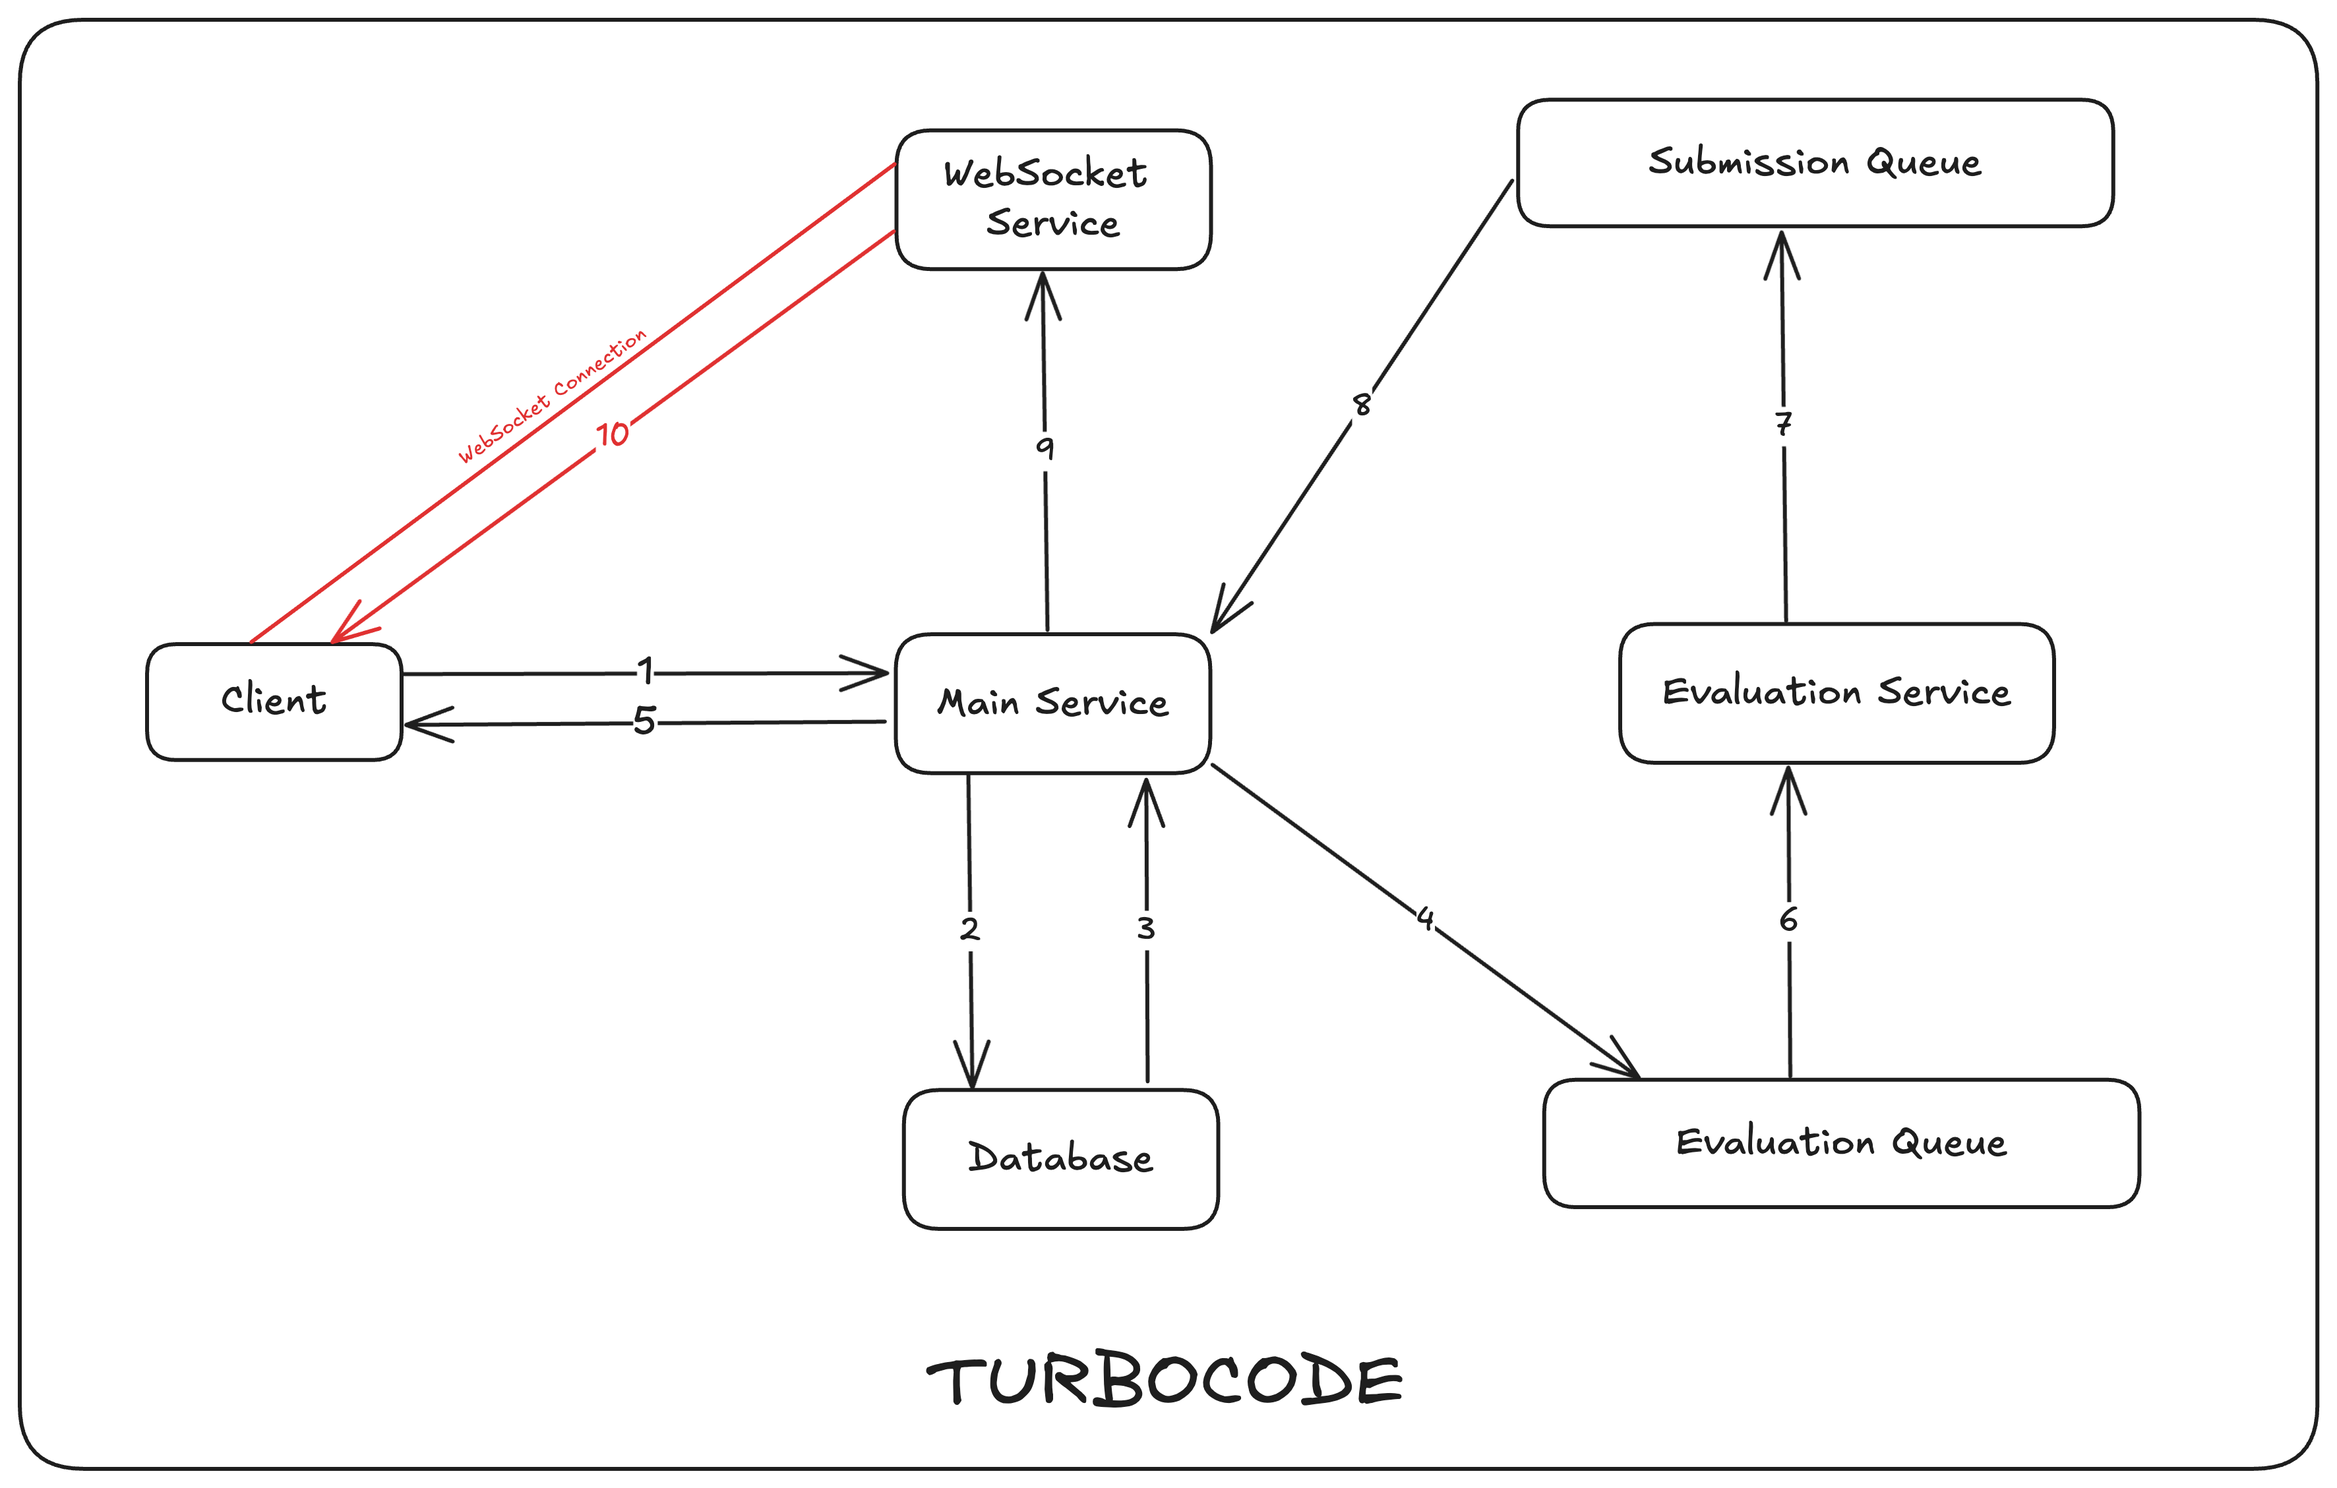
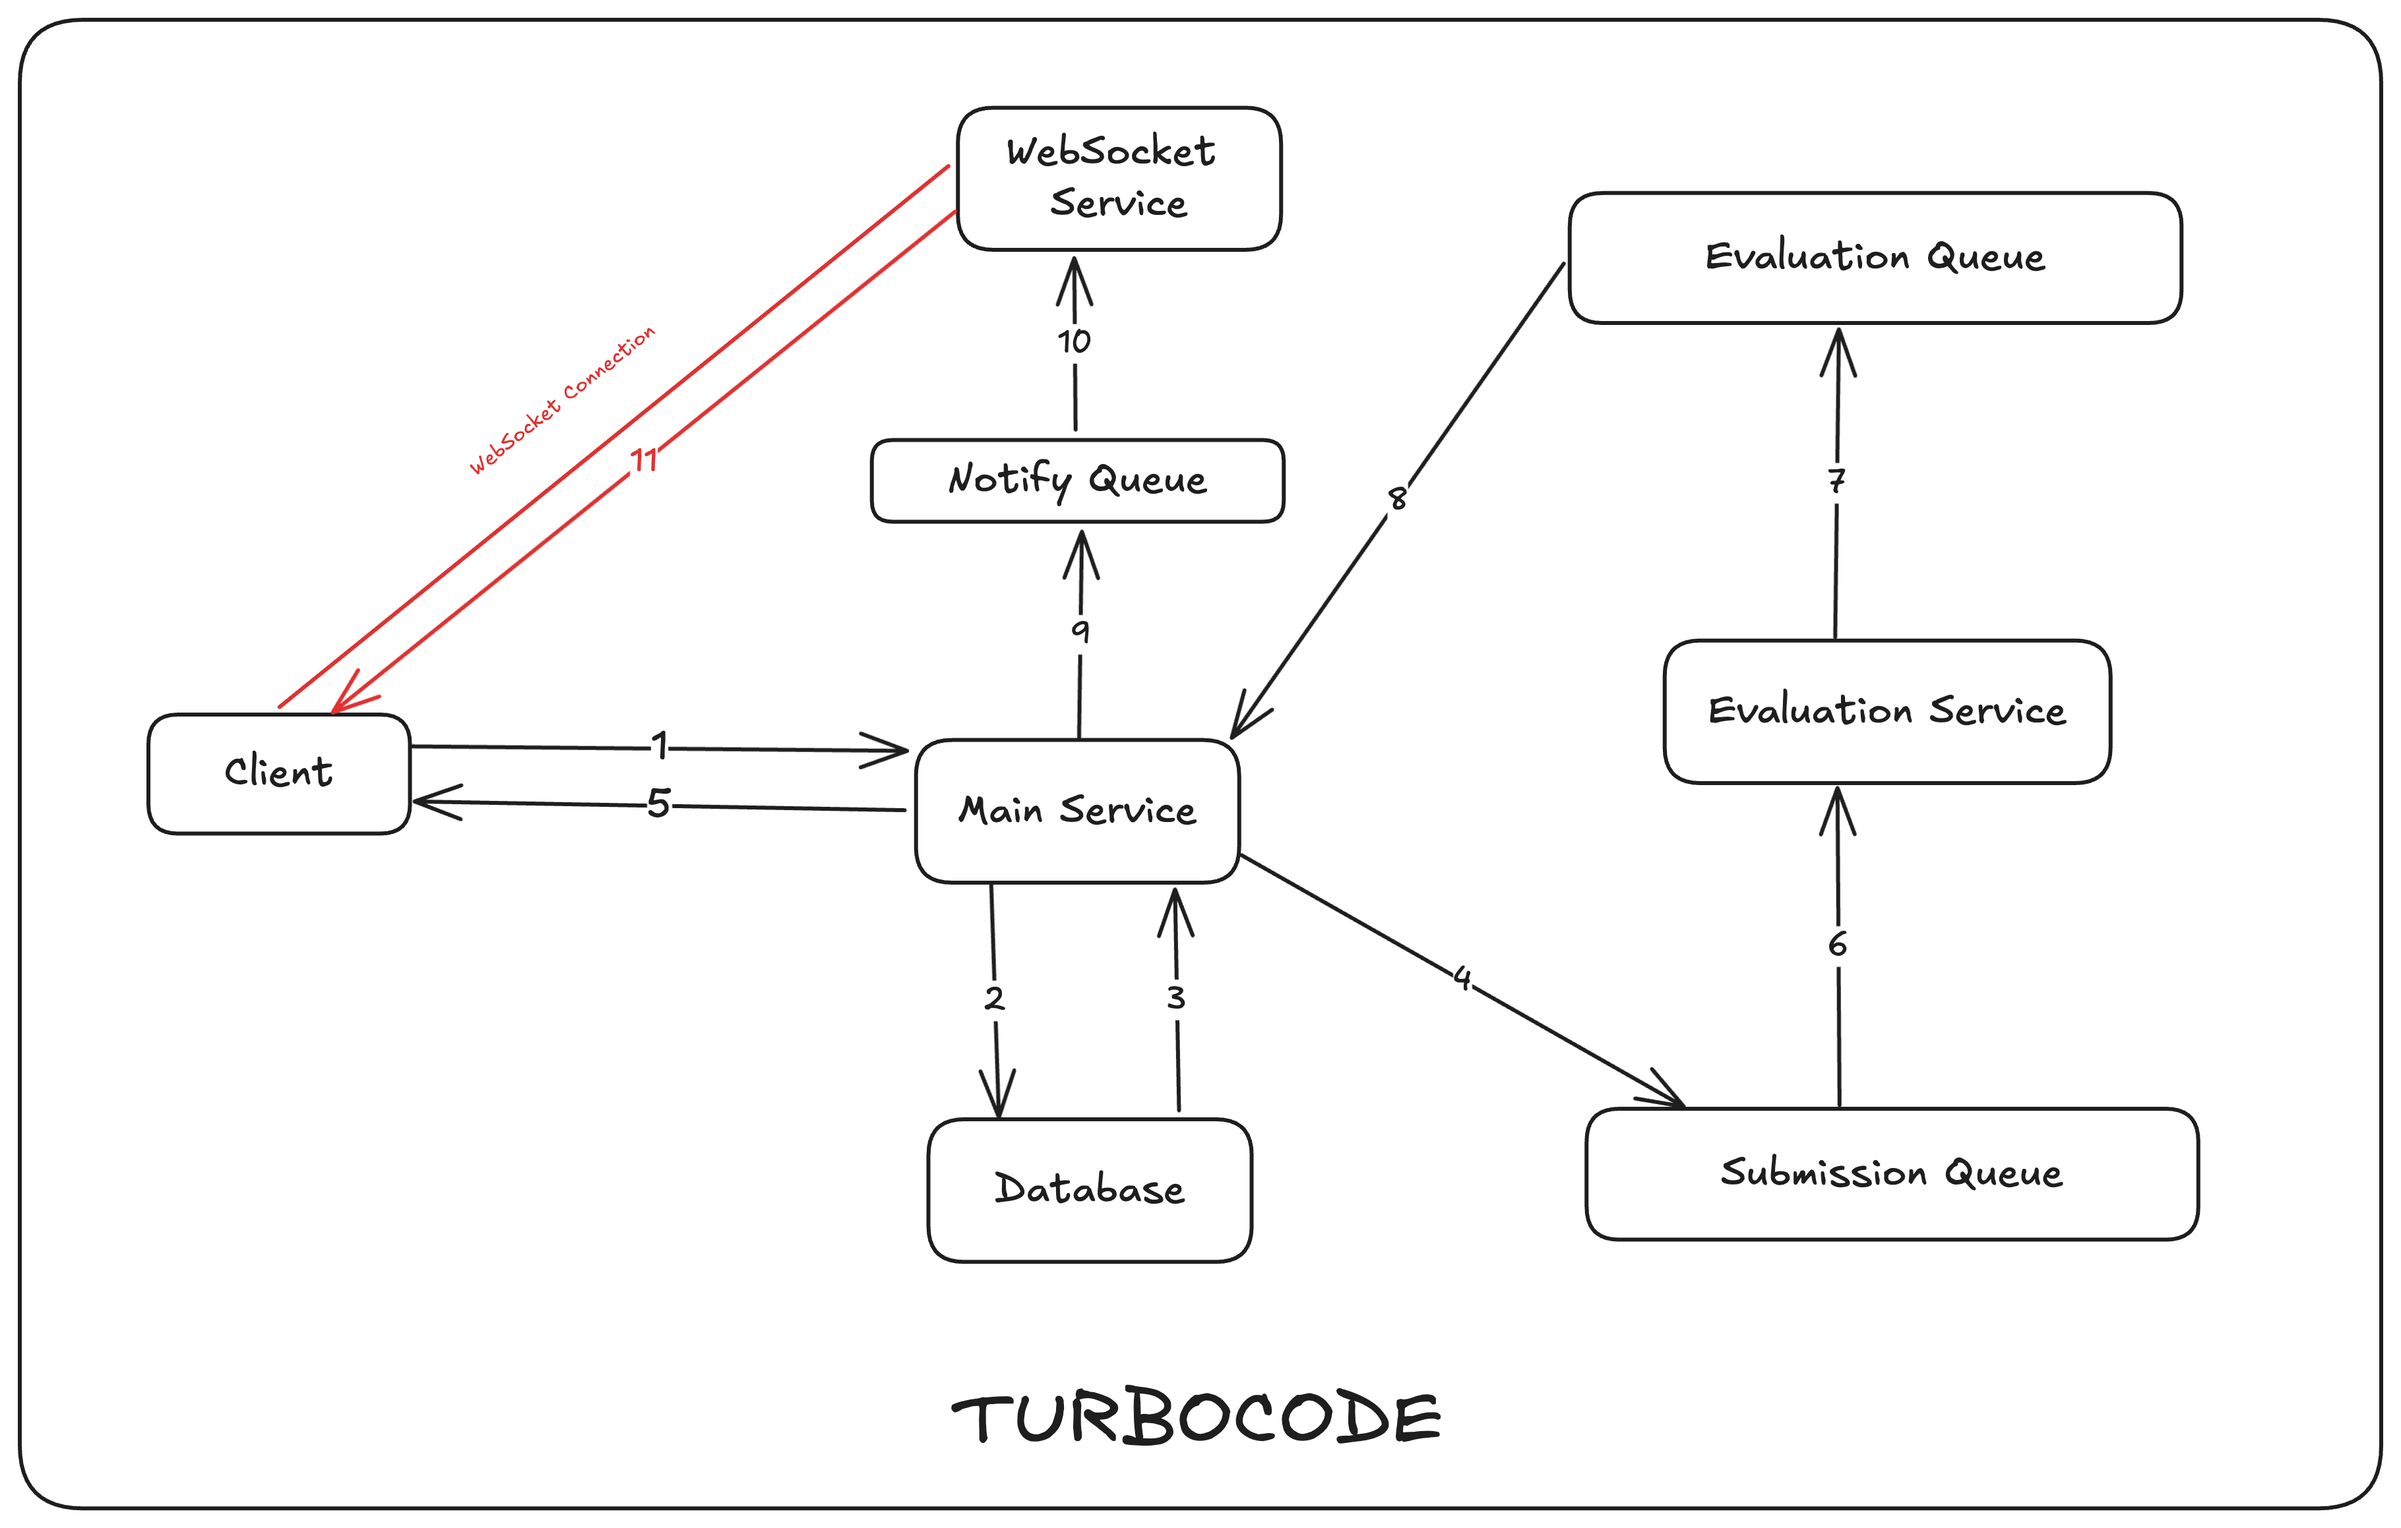
Added MsgQueue in Websocket Service

diff --git a/main-service/src/msg-queue/job.ts b/main-service/src/msg-queue/job.ts
@@ -1,6 +1,8 @@
 import SubmissionRepository from "../repositories/submission.repository";
 import SubmissionService from "../services/submission.services";
 import { SubmissionQueueDataType } from "../types/submission.type";
+import { NOTIFY_JOB, NOTIFY_QUEUE } from "../utils/constants";
+import addJobToQueue from "./add-job";
 
 const submissionService = new SubmissionService(new SubmissionRepository());
 
@@ -13,7 +15,7 @@ class EvaluatedJob {
     if (this.data.type === "SUBMIT") {
       await submissionService.updateByIdField(this.data.id, this.data);
     }
-    // Todo Update it to socket io server to send events to the user
+    await addJobToQueue(NOTIFY_QUEUE, this.data, NOTIFY_JOB);
   };
   failed = () => {};
 }

diff --git a/websocket-service/src/index.ts b/websocket-service/src/index.ts
@@ -3,6 +3,7 @@ import { createServer } from "node:http";
 import { serverConfig } from "./config";
 
 import { Server } from "socket.io";
+import myWorker from "./msg-queue/worker";
 const app = express();
 const server = createServer(app);
 const io = new Server(server);
@@ -14,7 +15,7 @@ app.get("/", (req, res) => {
 server.listen(serverConfig.PORT, () => {
   console.log(`Server Started : ${serverConfig.PORT}`);
 });
-
+myWorker.on("error", (err) => console.log("Error Occured ", err));
 io.on("connection", (socket) => {
   console.log(socket.id);
   // UserID --> Socket Id

diff --git a/websocket-service/src/msg-queue/worker.ts b/websocket-service/src/msg-queue/worker.ts
@@ -1,0 +1,18 @@
+import { Job, Worker } from "bullmq";
+import redisConnection from "../config/redis.config";
+import { NOTIFY_JOB, NOTIFY_QUEUE } from "../utils/constants";
+import NotifyJob from "./job";
+const myWorker = new Worker(
+  NOTIFY_QUEUE,
+  async (job: Job) => {
+    if (job.name === NOTIFY_JOB) {
+      const notify = new NotifyJob(job.data);
+      notify.handle();
+    }
+  },
+  {
+    connection: redisConnection,
+  }
+);
+
+export default myWorker;

diff --git a/websocket-service/src/msg-queue/job.ts b/websocket-service/src/msg-queue/job.ts
@@ -1,0 +1,13 @@
+import { SubmissionType } from "../types/submission";
+
+class NotifyJob {
+  data: SubmissionType;
+  constructor(data: SubmissionType) {
+    this.data = data;
+  }
+  handle = async () => {
+    console.log("Socket Server Data : ", this.data);
+  };
+  failed = () => {};
+}
+export default NotifyJob;

diff --git a/main-service/src/utils/constants.ts b/main-service/src/utils/constants.ts
@@ -3,3 +3,6 @@ export const SUBMISSION_JOB = "Submission";
 
 export const EVALUATION_QUEUE = "EvaluationQueue";
 export const EVALUATION_JOB = "Evaluation";
+
+export const NOTIFY_QUEUE = "NotifyQueue";
+export const NOTIFY_JOB = "Notify";

diff --git a/websocket-service/src/types/submission.ts b/websocket-service/src/types/submission.ts
@@ -1,0 +1,11 @@
+export type SubmissionType = {
+  type: string;
+  input: string;
+  output: string;
+  id: string;
+  problemId: string;
+  userId: string;
+  code: string;
+  language: string;
+  state: string;
+};

diff --git a/websocket-service/src/utils/constants.ts b/websocket-service/src/utils/constants.ts
@@ -1,0 +1,2 @@
+export const NOTIFY_QUEUE = "NotifyQueue";
+export const NOTIFY_JOB = "Notify";
